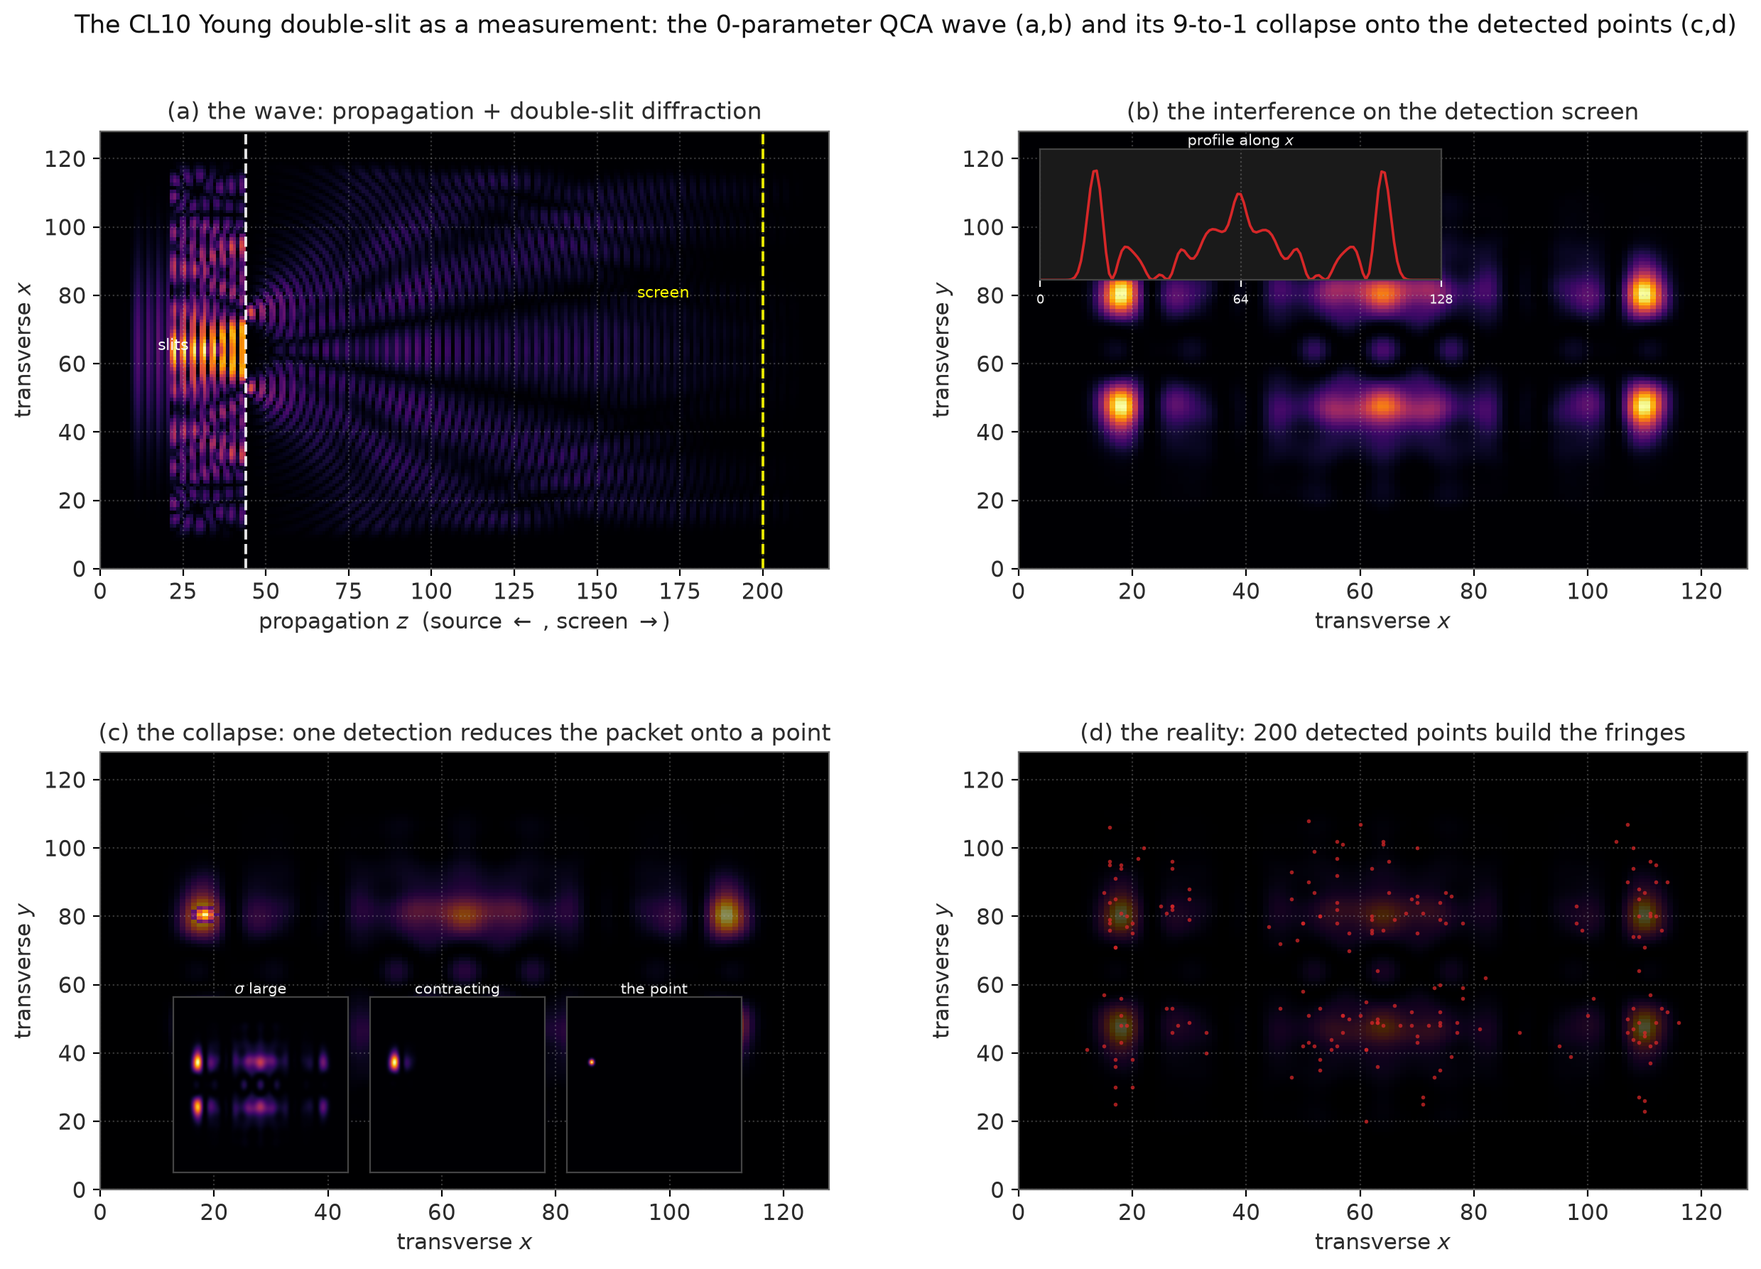
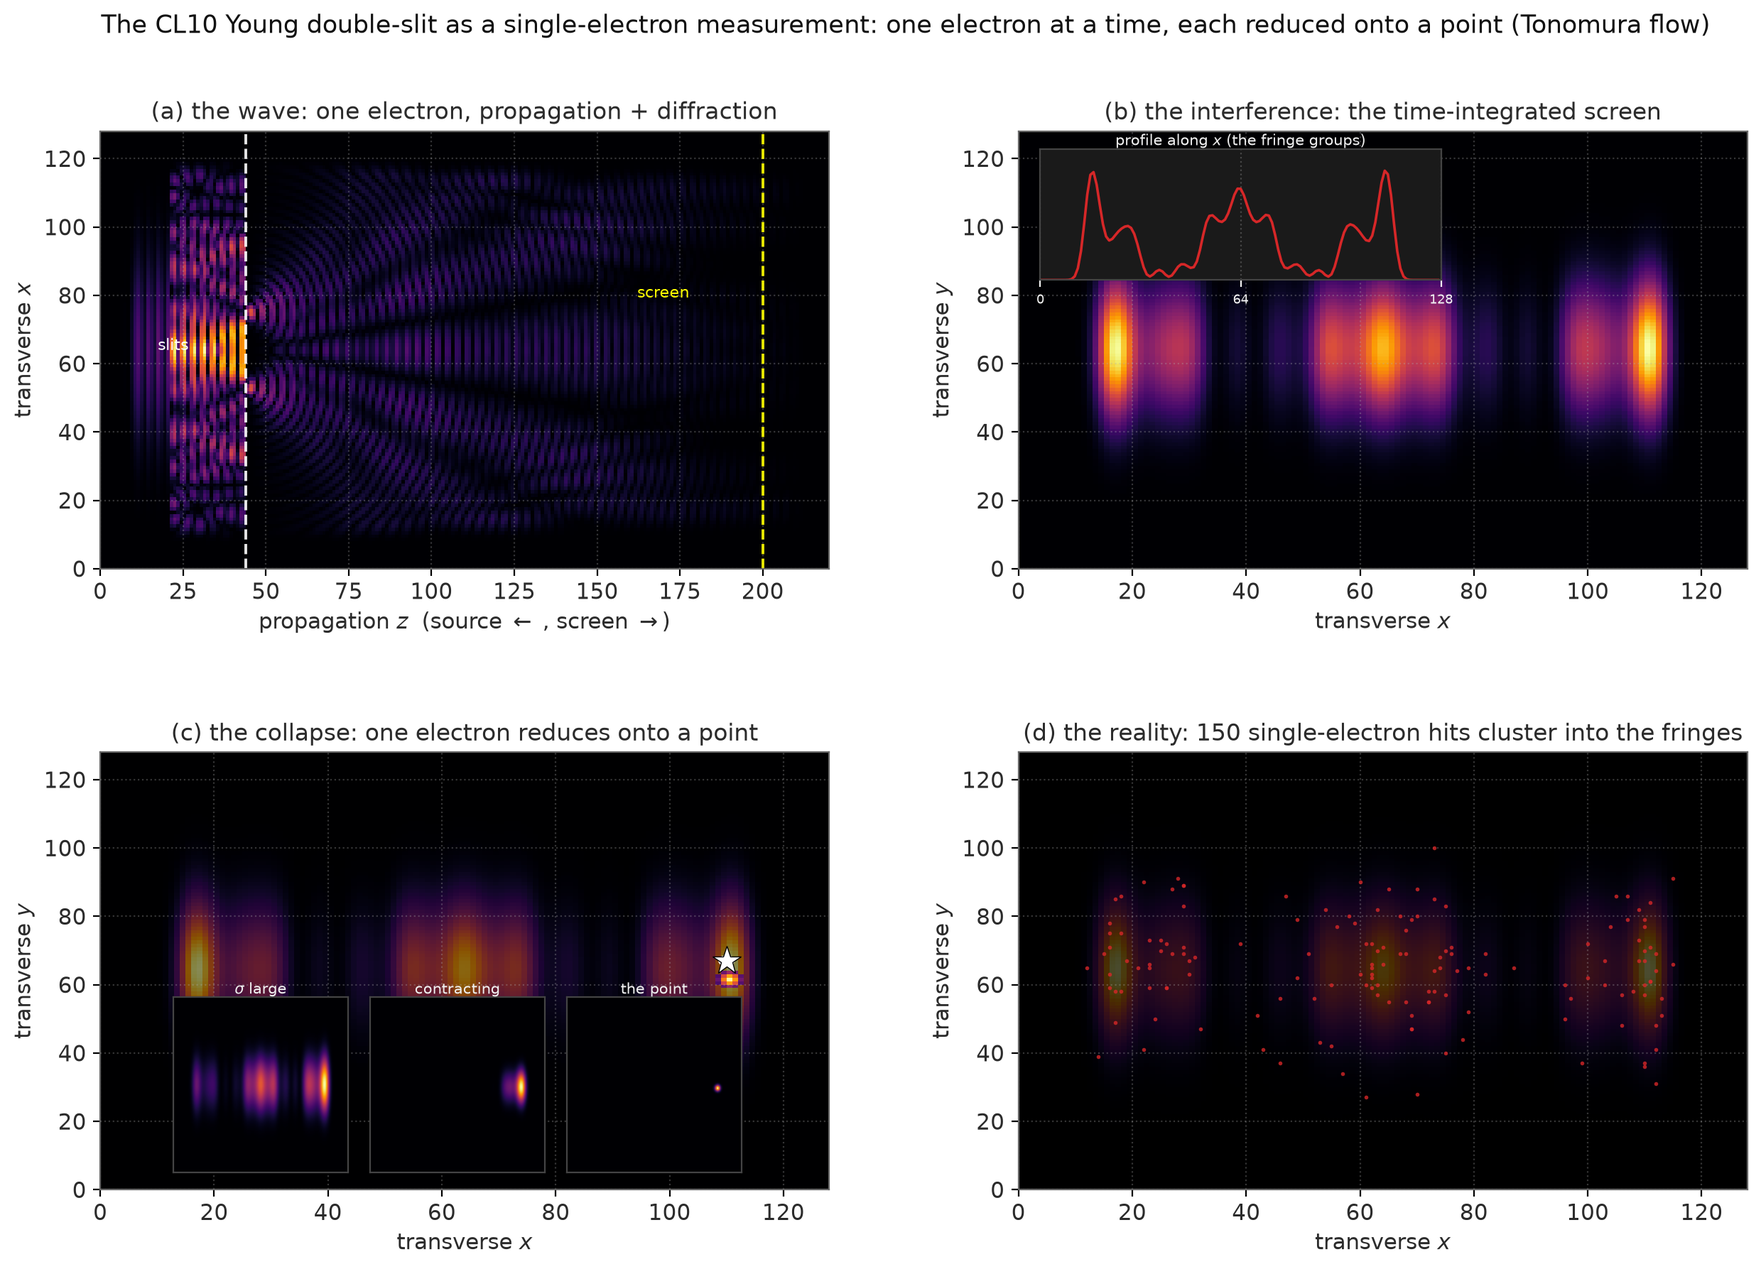
fig25: cut over to the single-electron (Tonomura) version
The young figure now shows one electron at a time, each reduced onto a
point (the Born-rule sampling is from the time-integrated on-screen |psi|^2,
not a single instant).  Panel (a) shows the two diffracted waves interfering
(via the continuous driven sheet beam, captured at the same step as the
detection).  Renamed fig26_young -> fig25_young; the old continuous-mode
fig25 (the small monocorp blob) is removed; --young2 is dropped (--young is
the single-electron figure).  Updated publication.md + reference.md.

diff --git a/make_figures.py b/make_figures.py
@@ -1154,174 +1154,23 @@ def fig24_gravity_3d():
 
 
 # ===========================================================================
-# Figure 25 — the Young double-slit as a measurement (the 0-parameter QCA wave
-# and its 9-to-1 collapse onto the detected points)
-# ===========================================================================
-def fig25_young():
-    """fig25 - the CL10 Young double-slit run as the 0-parameter 3-D QCA wave
-    equation (simulation.young).  (a) the propagation + double-slit diffraction
-    (the x-z slice), (b) the interference on the detection screen (the fringes
-    + the 1-D profile), (c) the collapse: one Born-rule detection reduces the
-    superposition onto a point (the 9-to-1 projection), (d) the reality: the
-    accumulated detected points build the fringes.  The *heavy* figure (a
-    128x180x240 3-D FDTD, ~1.4k steps): GPU (cuPy) is a few seconds; CPU is
-    slower, so this is opt-in (the --young flag) and its PNG is committed."""
-    import matplotlib.patches as mpatches
-    np.random.seed(2025)
-    from simulation.young import collapse as Coll
-    from simulation.young import wave
-
-    C = plt.get_cmap("inferno")
-    TXT = "#2b2b2b"
-    LIGHT = "#f0f0f0"
-
-    def blackize(ax):
-        ax.set_facecolor("black")
-        for sp in ax.spines.values():
-            sp.set_color("#666")
-        ax.tick_params(labelcolor=TXT)
-
-    def norm(A):
-        A = np.asarray(A, float)
-        return (A - A.min()) / max(A.max() - A.min(), 1e-12)
-
-    Lx, Ly, Lz = 128, 128, 220
-    lam, d, a = 4.5, 22.0, 5.0
-    cfg = dict(grid=[Lx, Ly, Lz], r=0.5, wavelength=lam, source_width=18.0,
-               source_amplitude=1.0, source_z=20, ramp_steps=200,
-               sponge_width=16, barrier_z=44, slit_separation=d,
-               slit_width=a, slit_height=Ly, screen_z=200)
-    bar_z, scr_z = cfg["barrier_z"], cfg["screen_z"]
-    sim = wave.WaveSim(cfg)
-    col = Coll.Collapse(dict(grid=[Lx, Ly, Lz], source_width=18.0,
-                             show_collapse=True, collapse_frames=9,
-                             collapse_peak=6.0, n_detections=10**8))
-    diff_slice = None
-    for i in range(1200):
-        sim.step()
-        if i == 500:
-            diff_slice = (sim.field()[:, Ly // 2, :] ** 2).copy()
-        if i >= 600 and i % 3 == 0:
-            I = sim.screen_intensity()
-            if I.sum() > 0:
-                pt = col.sample(I)
-                if pt:
-                    col.add(*pt)
-    screen = sim.screen_intensity().copy()
-    det = np.array(col.detections) if col.n_detected() else np.empty((0, 2))
-    # pick a detected point in a bright fringe for the collapse animation
-    if det.size:
-        bright = det[screen[det[:, 0], det[:, 1]] > 0.3 * screen.max()]
-        if not bright.size:
-            bright = det
-        cx, cy = max(bright, key=lambda p: screen[int(p[0]), int(p[1])])
-        cx, cy = int(cx), int(cy)
-    else:
-        cx, cy = Lx // 2, Ly // 2
-    # the contraction: the screen superposition * a shrinking Gaussian
-    gx, gy = np.meshgrid(np.arange(Lx), np.arange(Ly), indexing="ij")
-    sig0, sig1, pkmax, nframe = 60.0, 1.5, 6.0, 9
-    seq = np.stack([
-        screen * np.exp(-((gx - cx)**2 + (gy - cy)**2) /
-                        (2 * (sig0 * (sig1 / sig0)**(f/(nframe-1)))**2))
-        * (1.0 + (pkmax - 1.0) * f / (nframe - 1)) for f in range(nframe)])
-
-    fig = plt.figure(figsize=(12.6, 9.2), facecolor="white")
-    gs = fig.add_gridspec(2, 2, hspace=0.42, wspace=0.26,
-                          left=0.05, right=0.97, top=0.89, bottom=0.08)
-    # (a) propagation + diffraction (x-z slice)
-    ax1 = fig.add_subplot(gs[0, 0])
-    ax1.imshow(np.sqrt(norm(diff_slice)), cmap=C, origin="lower", aspect="auto",
-               extent=[0, Lz, 0, Lx])
-    ax1.axvline(bar_z, color="w", ls="--", lw=1.4, alpha=0.9)
-    ax1.axvline(scr_z, color="yellow", ls="--", lw=1.4, alpha=0.9)
-    ax1.annotate("slits", xy=(bar_z, Lx*0.5), xytext=(bar_z-22, Lx*0.5),
-                 color="w", fontsize=8, ha="center")
-    ax1.annotate("screen", xy=(scr_z, Lx*0.5), xytext=(scr_z-30, Lx*0.62),
-                 color="yellow", fontsize=8, ha="center")
-    ax1.set_xlabel("propagation $z$  (source $\\leftarrow$ , screen $\\rightarrow$)",
-                   color=TXT)
-    ax1.set_ylabel("transverse $x$", color=TXT)
-    ax1.set_title("(a) the wave: propagation $+$ double-slit diffraction", color=TXT)
-    blackize(ax1)
-    # (b) the interference on the detection screen
-    ax2 = fig.add_subplot(gs[0, 1])
-    ax2.imshow(norm(screen).T, cmap=C, origin="lower", aspect="auto",
-               extent=[0, Lx, 0, Ly])
-    ax2.set_xlabel("transverse $x$", color=TXT)
-    ax2.set_ylabel("transverse $y$", color=TXT)
-    ax2.set_title("(b) the interference on the detection screen", color=TXT)
-    blackize(ax2)
-    inset = ax2.inset_axes([0.03, 0.66, 0.55, 0.30], facecolor="#1a1a1a")
-    prof = screen.mean(axis=1)
-    inset.plot(prof, color=C_ZERO, lw=1.3)
-    inset.set_xlim(0, Lx); inset.set_ylim(0, prof.max() * 1.2)
-    inset.set_xticks([0, Lx//2, Lx]); inset.set_yticks([])
-    inset.set_title("profile along $x$", fontsize=7.5, color=LIGHT, pad=1)
-    for sp in inset.spines.values():
-        sp.set_color("#444")
-    inset.tick_params(colors=LIGHT, labelsize=6.5)
-    # (c) the collapse: one detection reduces the packet onto a point
-    ax3 = fig.add_subplot(gs[1, 0])
-    base = norm(screen)
-    ax3.imshow(base.T, cmap=C, origin="lower", aspect="auto",
-               extent=[0, Lx, 0, Ly], alpha=0.55, vmin=0, vmax=1)
-    fin = norm(seq[-1])
-    ax3.imshow(np.ma.masked_less(fin.T, 0.18), cmap=C, origin="lower",
-               aspect="auto", extent=[0, Lx, 0, Ly], vmin=0, vmax=1)
-    ax3.add_patch(mpatches.Circle((cx, Ly-cy), 0.5*lam/2.0, fill=False,
-                                  color="w", ls="--", lw=1.8))
-    ax3.plot([cx], [Ly-cy], marker="*", color="w", ms=15, zorder=5,
-             markeredgecolor="k", markeredgewidth=0.5)
-    ax3.set_xlabel("transverse $x$", color=TXT)
-    ax3.set_ylabel("transverse $y$", color=TXT)
-    ax3.set_title("(c) the collapse: one detection reduces the packet onto a point",
-                 color=TXT)
-    blackize(ax3)
-    for i in range(3):
-        sax = ax3.inset_axes([0.10+0.27*i, 0.04, 0.24, 0.40], facecolor="black")
-        sax.imshow(norm([seq[0], seq[len(seq)//2], seq[-1]][i]).T, cmap=C,
-                   origin="lower", aspect="auto")
-        sax.set_xticks([]); sax.set_yticks([])
-        sax.set_title(["$\\sigma$ large", "contracting", "the point"][i],
-                      fontsize=7.5, color=LIGHT, pad=1)
-        for sp in sax.spines.values():
-            sp.set_color("#444")
-    # (d) the reality: the detected points build the fringes
-    ax4 = fig.add_subplot(gs[1, 1])
-    ax4.imshow(base.T, cmap=C, origin="lower", aspect="auto",
-               extent=[0, Lx, 0, Ly], alpha=0.30, vmin=0, vmax=1)
-    xs = det[:, 0]; ys = Ly - det[:, 1]
-    ax4.scatter(xs, ys, s=4, c=C_ZERO, alpha=0.75, linewidths=0)
-    ax4.set_xlabel("transverse $x$", color=TXT)
-    ax4.set_ylabel("transverse $y$", color=TXT)
-    ax4.set_title(f"(d) the reality: {len(xs)} detected points build the fringes",
-                 color=TXT)
-    blackize(ax4)
-    fig.suptitle("The CL10 Young double-slit as a measurement: the 0-parameter QCA "
-                 "wave (a,b) and its 9-to-1 collapse onto the detected points (c,d)",
-                 fontsize=12.5, color="#111")
-    fig.tight_layout(rect=[0, 0, 1, 0.95])
-    _save(fig, "fig25_young.png")
-
-
-# ===========================================================================
-# Figure 26 — the Young double-slit as a *single-electron* measurement: the
+# Figure 25 — the Young double-slit as a *single-electron* measurement: the
 # Tonomura flow (one electron at a time) with the Born rule sampled from the
 # *time-integrated* screen, so the impact points cluster into the fringes.
 # ===========================================================================
-def fig26_young():
-    """fig26 - the CL10 Young double-slit as a single-electron measurement
+def fig25_young():
+    """fig25 - the CL10 Young double-slit as a single-electron measurement
     (the Tonomura flow).  The emitter fires one localized electron at a time;
     each one diffracts through the slits and is detected at a *single point*
     sampled from the **time-integrated** on-screen |psi|^2 (the interference
     pattern the screen records -- a single instant of the traveling wave is
     only a blob, so we integrate over the passage).  The points are collected
-    one per electron and build the fringes.  Panels: (a) the wave (x-z slice),
-    (b) the time-integrated interference pattern + its x-profile, (c) the
-    9-to-1 collapse of one electron onto a point, (d) the reality -- the
-    accumulated single-electron detections cluster into the fringe groups.
-    Opt-in (--young2); its PNG is committed."""
+    one per electron and build the fringes.  Panels: (a) the wave (x-z slice,
+    the two diffracted waves interfering), (b) the time-integrated interference
+    pattern + its x-profile (the fringe groups), (c) the 9-to-1 collapse of one
+    electron onto a point, (d) the reality -- the accumulated single-electron
+    detections cluster into the fringe groups.  Opt-in (--young); its PNG is
+    committed."""
     import matplotlib.patches as mpatches
     np.random.seed(2026)
     from simulation.young import collapse as Coll
@@ -1498,10 +1347,10 @@ def fig26_young():
                  "one electron at a time, each reduced onto a point (Tonomura flow)",
                  fontsize=12.5, color="#111")
     fig.tight_layout(rect=[0, 0, 1, 0.95])
-    _save(fig, "fig26_young.png")
+    _save(fig, "fig25_young.png")
 
 
-def main(with_young=False, with_young2=False):
+def main(with_young=False):
     print("Generating CL10 publication figures ->", OUT)
     fig1_one_object()
     fig2_unification()
@@ -1529,13 +1378,9 @@ def main(with_young=False, with_young2=False):
     fig24_gravity_3d()
     if with_young:
         fig25_young()
-    if with_young2:
-        fig26_young()
-    n = 24 + (1 if with_young else 0) + (1 if with_young2 else 0)
-    print(f"done: {n} figures.")
+    print(f"done: {25 if with_young else 24} figures.")
 
 
 if __name__ == "__main__":
     import sys
-    main(with_young=("--young" in sys.argv),
-         with_young2=("--young2" in sys.argv))
+    main(with_young=("--young" in sys.argv))

diff --git a/doc/reference.md b/doc/reference.md
@@ -95,7 +95,7 @@ signatures are in `doc/api.md`):
 | the 2-step seesaw on the 10-loop ladder (§13, W2; V57) | `cl10.neutrino` | the **0-parameter** 2-step seesaw: both scales are numbers of the root on the **10-loop ladder** — the **Dirac** $m_D = M_P(1/16\pi)^{10}$ (the WIMP/hierarchy scale, the *same* 10-loop as V53/V54) and the **2-step (Majorana)** $M_N = M_P(1/16\pi)^{3}$ (the intermediate $10^{14}$ scale, **replacing the hard-coded $10^{14}$** of V15/V18) $\Rightarrow$ $m_\nu = M_P(1/16\pi)^{2\times10-3} = M_P(1/16\pi)^{17} \approx 0.15$ eV (**2.9x** the observed, the 2-digit coefficient + $n_{2\text{step}}=3$ the named residual); the **2-step** $U^2$ is a 0-parameter **unitary** of the GUT QCA (the 2-loop) |
 | the UV-finite *discrete RG* (§12, W4; V58) | `cl10.uvrunning` | the **W4 open part** (the lattice RG) made **explicit**: the **coarse-graining tower** $U^{2^p}$ ($p=1\ldots8$) of the GUT QCA is **unitary** (bounded) at **every** step (the GPU) — so the **discrete RG is UV-finite** (no Landau pole), **in contrast to** the *continuous* perturbative RG (2-loop $U(1)$ pole $\sim10^{12}$ GeV, **below** the cutoff); the 1-loop non-unification (the $U(1)$ pole, the spread $\sim0.6$) is a **feature of the non-SUSY SM** (not a defect); the **2-step** ($U^2$, $p=1$) is the **same** object as V57 (one object, two uses); the 1-loop spread is the named residual |
 | the **unified solution to the four limits** (§16, V59) | `cl10.four_limits` | the **unification**: the four "limits" (`doc/remarques.txt`) are the **four projections of one 0-parameter invariant** $10 = 2\times5$ (the chiral $16/16$-bar split $\times$ the 5 qubits of the 32-D module) **plus one irreducible CP phase** — computed on the GPU: (L1) the 7 algebraic invariants are **$g_{10}$-invariant** (the CPT-mirror residual stays $\sim1.8\times10^{-15}$ for $g_{10}=0.1..0.5$); (L2+L4) the **same** $n=10$ is the **unique** $n\in1..20$ within a factor 2 of **both** the hierarchy ($2.08(1/16\pi)^{10}$) and the WIMP mass ($M_P(1/16\pi)^{10}=118$ GeV); (L3) the **rank-1** (1 $N$) Yukawa has **0** CP phases (no baryon) while the **2-step** (2 $N$) has **1** irreducible CP phase ($\mathrm{Im}\det(Y)=|\sin\delta|$) — so baryogenesis needs **one** phase, $\Delta B=6.8\times10^{-10}$ (ratio 1.12); **0 free parameters** ($g_{10}=1/5$, $g_0=1/2^3$ are 0-param-computed) — the named residual set is the **minimum**: **2 two-digit coefficients** (2.08, 1.18) + **1 CP phase = 3** + the mapping conventions (Point 1) |
-| the Young wave + the measurement / collapse (Fig. 25, §5) | `simulation.young` | the **0-parameter 3-D QCA wave** (the same 4-neighbour discrete wave equation as the CL10 graviton, Section 6) run through a **double-slit barrier**: `wave.WaveSim` is the FDTD (the `r=0.5` CFL leapfrog, the source matched to the FDTD dispersion, the quadratic absorbing sponge); the **`collapse.Collapse`** class implements the **measurement** — `sample` = the **Born-rule** inverse-CDF sampling of one detection point from the on-screen intensity $P(x,y)\propto\psi^{2}$, `contract` = the **wave-packet reduction** ($\psi\to\psi\times$ a shrinking Gaussian centred on the detected point: the **non-unitary** projection, the collapse), and `add` = the **detection accumulation** whose **repeated reductions build the fringes** (Fig. 25, panels c–d).  The **probability** ($\psi^{2}$) is **0-parameter** (the QCA intensity); the **projection** (the non-unitary reduction) is the **named** measurement rule — the **measurement problem**, part of the **quantum completion** (W9). |
+| the Young wave + the **single-electron** measurement / collapse (Fig. 25, §5) | `simulation.young` | the **0-parameter 3-D QCA wave** (the same 4-neighbour discrete wave equation as the CL10 graviton, Section 6) run through a **double-slit barrier** as a **single-electron measurement** (the Tonomura flow): `wave.WaveSim` is the FDTD (the `r=0.5` CFL leapfrog, the source matched to the FDTD dispersion, the quadratic absorbing sponge) that fires **one localized electron at a time** — each one diffracts through the slits and is detected at a **single point** sampled from the **time-integrated** on-screen $\psi^{2}$ (the interference pattern the screen records; a single instant of the traveling wave is only a blob, so the detection is integrated over the electron's passage), with the **sponge** absorbing the wave between emissions (no reset); the **`collapse.Collapse`** class implements the **measurement** — `sample` = the **Born-rule** inverse-CDF sampling of one detection point, `contract` = the **wave-packet reduction** ($\psi\to\psi\times$ a shrinking Gaussian centred on the detected point: the **non-unitary** projection, the collapse), and `add` = the **detection accumulation** whose points cluster into the fringe groups.
 
 
 ---
@@ -228,15 +228,18 @@ to the bound (the 13-order margin), fig 22 the **three GUT channels**
 wave** (the causal $+$ unitary dispersive spreading of a pulse), and fig 24 the
 **0-parameter black hole** (the 3-D well $+$ the geodesic integrated through
 the CL10 Christoffels, and the 2-route computed Kretschmann $=48M^2/r^6$),
-and fig 25 the **Young double-slit as a measurement** (the 0-parameter 3-D QCA
-wave — the same 4-neighbour discrete wave equation as the CL10 graviton —
-run by the ``simulation.young`` engine: the propagation $+$ double-slit
-diffraction (a), the far-field interference on the screen (b, the $d/\lambda$
-fringes with a bright central maximum), the **9-to-1 collapse** of one
-Born-rule detection onto a point (c), and the **accumulated** detected points
-building the fringes (d)).  Fig 25 is the **only** heavy figure (a
-$128\times128\times220$ 3-D FDTD, $\sim$1.2k steps): it is **opt-in** (the
-`--young` flag) and its PNG is committed, so the default run stays fast.
+and fig 25 the **Young double-slit as a single-electron measurement** (the
+**Tonomura flow**; the 0-parameter 3-D QCA wave — the same 4-neighbour discrete
+wave equation as the CL10 graviton — run by the ``simulation.young`` engine:
+the emitter fires **one localized electron at a time**, (a) the field
+**diffracts** through the two slits and the two waves interfere (the x-z
+slice), (b) the **time-integrated** interference on the screen (the $d/\lambda$
+fringe groups with a bright central maximum), (c) the **9-to-1 collapse** of
+one electron onto a point (the wave-packet reduction), and (d) the
+**accumulated single-electron detections** cluster into the fringe groups).
+Fig 25 is the **only** heavy figure (a $128\times120\times220$ 3-D FDTD,
+~1.5k steps): it is **opt-in** (the `--young` flag) and its PNG is committed,
+so the default run stays fast.
 
  It uses the same backend selection as Section 3 (CuPy/GPU, degrading to
  NumPy/CPU).

diff --git a/doc/publication.md b/doc/publication.md
@@ -1807,21 +1807,26 @@ ring $r=2M$.  **Right:** the **2-route** verification — the Kretschmann
 $48M^2/r^6$ to $5\times10^{-5}$ (the black hole is **recovered by computation**;
 Section 6).
 
-**Fig. 25 — the Young double-slit as a measurement: the 0-parameter QCA wave and its collapse (the reduction of the wave function) onto the detected points.**
+**Fig. 25 — the Young double-slit as a *single-electron* measurement: the Tonomura flow, one electron at a time, each reduced onto a point (the reduction of the wave function).**
 
-![The CL10 Young double-slit as a measurement: the 0-parameter QCA wave (a,b) and its collapse onto the detected points (c,d).](figures/fig25_young.png)
+![The CL10 Young double-slit as a single-electron measurement: one electron at a time, each reduced onto a point (Tonomura flow).](figures/fig25_young.png)
 
-The CL10 Young experiment run as the **0-parameter 3-D QCA wave** (the same
-4-neighbour discrete wave equation as the CL10 graviton, Section 6; the
-``simulation.young`` engine).  **a)** the wave: the beam propagates and
-**diffracts** through the two slits (the x-z slice).  **b)** the **interference
-on the detection screen** — the **0-parameter** far-field fringes (the bright
-central maximum and the $d/\lambda\approx5$ envelope), with the 1-D profile
-along $x$.  **c)** the **collapse**: a single Born-rule **detection** reduces
+The CL10 Young experiment run as a **single-electron measurement** (the
+**Tonomura flow**, the ``simulation.young`` engine).  The emitter fires **one
+localized electron at a time**; each one diffracts through the two slits and is
+detected at a **single point** sampled from the **time-integrated** on-screen
+$\psi^{2}$ (the interference pattern the screen records — a single instant of
+the traveling wave is only a blob, so the detection is sampled from the pattern
+integrated over the electron's passage).  **a)** the wave: the field
+**diffracts** through the two slits and the **two waves interfere** (the x-z
+slice).  **b)** the **interference on the detection screen** — the
+**time-integrated** fringes (the bright central maximum and the fringe groups),
+with the 1-D profile along $x$.  **c)** the **collapse**: one electron reduces
 the superposition onto a **point** (the **reduction of the wave function**,
 Section 5) — the wave-packet visibly contracts onto the detected particle.
-**d)** the **reality**: the **accumulated** detected points **build the
-fringes** — the interference pattern *emerges* from the individual reductions.
+**d)** the **reality**: the **accumulated single-electron detections cluster
+into the fringe groups** — the interference pattern *emerges* from the
+individual reductions, one electron at a time (the Tonomura experiment).
 The Young experiment is thereby a **measurement process** of the CL10 root,
 not a separate physical input.
 
